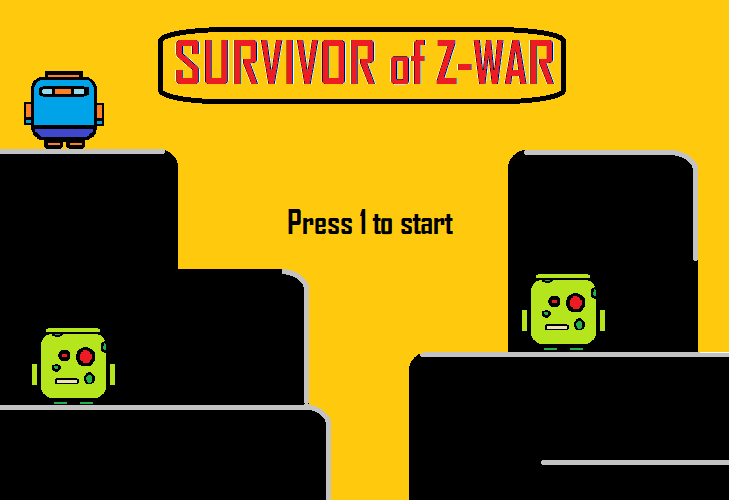
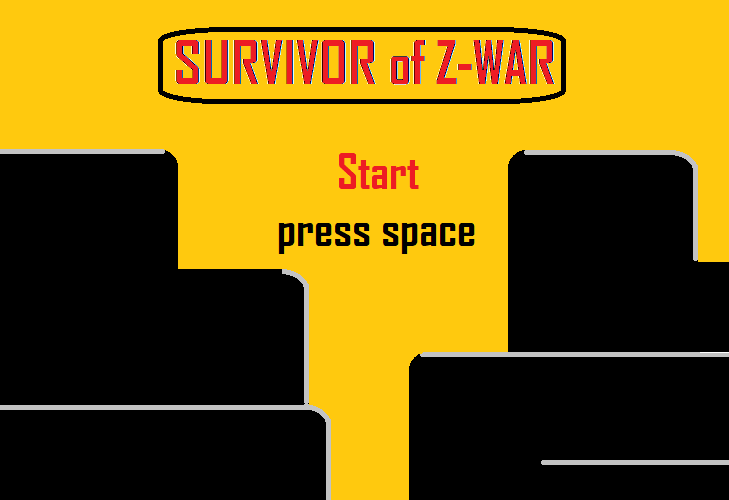
01

diff --git a/management_canvas.py b/management_canvas.py
@@ -1,5 +1,6 @@
 import pygame
 from management_gameplay_environment import ManagementEnvironment
+from management_menu_environment import ManagementMenuEnvironment
 
 
 class ManagementCanvas:
@@ -10,6 +11,7 @@ class ManagementCanvas:
         self.OBJECT_HEIGHT = 80
         self.OBJECT_SPEED = 2
 
+        self.management_menu_environment = None
         self.management_environment = None
 
         # call every x milliseconds
@@ -31,6 +33,10 @@ class ManagementCanvas:
         self.root_background_image_menu = pygame.transform.scale(self.root_background_image_menu,
                                                                  (self.ROOT_WIDTH, self.ROOT_HEIGHT))
 
+    def create_management_menu_environment(self):
+        # create zombie in main menu
+        self.management_menu_environment = ManagementMenuEnvironment(self.root, self.ROOT_WIDTH, self.ROOT_HEIGHT)
+
     def create_management_environment(self):
         # create all the enemy, player, bullet
         self.management_environment = ManagementEnvironment(self.root, self.OBJECT_WIDTH, self.OBJECT_HEIGHT,
@@ -51,6 +57,7 @@ class ManagementCanvas:
             # check if player died
             self.management_player_alive_or_not()
         elif self.root_menu:
+            self.management_menu_environment.move_zombie()
             self.check_event_key_in_menu()
         # draw everything
         self.management_draw()
@@ -60,13 +67,20 @@ class ManagementCanvas:
             # quit the game
             if event.type == pygame.QUIT:
                 self.launched = False
-            # to start game
+
             elif event.type == pygame.KEYUP:
-                if event.key == pygame.K_1:
-                    print("start")
+                # to start game
+                if event.key == pygame.K_SPACE:
                     self.root_gameplay = True
                     self.root_menu = False
                     self.create_management_environment()
+                # to change color of player
+                elif event.key == pygame.K_1:
+                    self.management_menu_environment.set_player_color(1)
+                elif event.key == pygame.K_2:
+                    self.management_menu_environment.set_player_color(2)
+                elif event.key == pygame.K_3:
+                    self.management_menu_environment.set_player_color(3)
 
     def check_event_key_in_gameplay(self):
         for event in pygame.event.get():
@@ -105,3 +119,4 @@ class ManagementCanvas:
             self.management_environment.draw_player_pv()
         elif self.root_menu:
             self.root.blit(self.root_background_image_menu, [0, 0])
+            self.management_menu_environment.draw_zombie_menu()

diff --git a/zombie_menu.py b/zombie_menu.py
@@ -1,0 +1,42 @@
+import pygame
+
+
+class ZombieMenu:
+    def __init__(self, root, position_x, position_y, min_x, max_x, width, height):
+        self.position_x = position_x
+        self.position_y = position_y
+        self.min_x = min_x
+        self.max_x = max_x
+        self.speed = 1
+        self.width = width
+        self.height = height
+        self.root = root
+
+        self.direction = "right"
+
+        self.object_image = pygame.image.load("enemy_zombie_idle.png")
+        self.object_image = pygame.transform.scale(self.object_image, (self.width, self.height))
+
+    def mouvement(self):
+        if self.direction == "right":
+            if self.position_x <= self.max_x:
+                self.move_right()
+            else:
+                self.direction = "left"
+        elif self.direction == "left":
+            if self.position_x >= self.min_x:
+                self.move_left()
+            else:
+                self.direction = "right"
+
+    def move_right(self):
+        self.position_x += self.speed
+
+    def move_left(self):
+        self.position_x -= self.speed
+
+    def draw(self):
+        # draw the rect using the position x, y, width, height
+        pygame.draw.rect(self.root, (0, 0, 0), (self.position_x, self.position_y, self.width, self.height), 1)
+        # draw the image using the position x, y
+        self.root.blit(self.object_image, (self.position_x, self.position_y))

diff --git a/player_menu.py b/player_menu.py
@@ -1,0 +1,33 @@
+import pygame
+
+
+class PlayerMenu:
+    def __init__(self, root, position_x, position_y, width, height):
+        self.root = root
+        self.position_x = position_x
+        self.position_y = position_y
+        self.width = width
+        self.height = height
+        self.object_image = None
+
+        self.player_color = "player_yellow_idle.png"
+        self.resize_image()
+
+    def set_new_color(self, number: int):
+        if number == 1:
+            self.player_color = "player_yellow_idle.png"
+        elif number == 2:
+            self.player_color = "player_green_idle.png"
+        elif number == 3:
+            self.player_color = "player_purple_idle.png"
+        self.resize_image()
+
+    def resize_image(self):
+        self.object_image = pygame.image.load(self.player_color)
+        self.object_image = pygame.transform.scale(self.object_image, (self.width, self.height))
+
+    def draw(self):
+        # draw the rect using the position x, y, width, height
+        pygame.draw.rect(self.root, (0, 0, 0), (self.position_x, self.position_y, self.width, self.height), 1)
+        # draw the image using the position x, y
+        self.root.blit(self.object_image, (self.position_x, self.position_y))

diff --git a/management_menu_environment.py b/management_menu_environment.py
@@ -1,0 +1,28 @@
+import pygame
+from zombie_menu import ZombieMenu
+from player_menu import PlayerMenu
+
+
+class ManagementMenuEnvironment:
+    def __init__(self, root, ROOT_WIDTH, ROOT_HEIGHT):
+        self.root = root
+        self.ZOMBIE_WIDTH = 100
+        self.ZOMBIE_HEIGHT = 100
+        self.ROOT_WIDTH = ROOT_WIDTH
+        self.ROOT_HEIGHT = ROOT_HEIGHT
+
+        self.player_menu = PlayerMenu(self.root, 50, 85, self.ZOMBIE_WIDTH, self.ZOMBIE_HEIGHT)
+        self.zombie_1 = ZombieMenu(self.root, 50, 385, 0, 270, self.ZOMBIE_WIDTH, self.ZOMBIE_HEIGHT)
+        self.zombie_2 = ZombieMenu(self.root, 630, 323, 630, 800, self.ZOMBIE_WIDTH, self.ZOMBIE_HEIGHT)
+
+    def set_player_color(self, number: int):
+        self.player_menu.set_new_color(number)
+
+    def draw_zombie_menu(self):
+        self.zombie_1.draw()
+        self.zombie_2.draw()
+        self.player_menu.draw()
+
+    def move_zombie(self):
+        self.zombie_1.mouvement()
+        self.zombie_2.mouvement()

diff --git a/management_gameplay_environment.py b/management_gameplay_environment.py
@@ -45,14 +45,13 @@ class ManagementEnvironment:
         self.player_image_pv_2 = pygame.image.load("player_pv_2.png")
         self.player_image_pv_1 = pygame.image.load("player_pv_1.png")
 
-
         # set up sound
         self.sound = Sounds()
 
         # set up environment
         self.position_environment = PositionEnvironment(player_pv)
         # set up player
-        self.player = Player(self.root, "player", "player", 400, 250,
+        self.player = Player(self.root, "player_yellow", "player", 400, 250,
                              self.HUMAN_WIDTH, self.HUMAN_HEIGHT, self.HUMAN_SPEED, self.position_environment)
 
     def random_position_of_enemy(self):

diff --git a/object.py b/object.py
@@ -15,7 +15,7 @@ class Object:
         prefix = str.lower(self.name_image)
 
         # create image for everyone
-        self.object_image = pygame.image.load(prefix + "_yellow_idle.png")
+        self.object_image = pygame.image.load(prefix + "_idle.png")
         self.object_image = pygame.transform.scale(self.object_image, (self.width, self.height))
 
         # draw the human in the root

diff --git a/main.py b/main.py
@@ -28,6 +28,8 @@ clock = pygame.time.Clock()
 
 launched = True
 management_canvas = ManagementCanvas(root, clock, launched, ROOT_WIDTH, ROOT_HEIGHT)
+management_canvas.create_management_menu_environment()
+
 while launched:
     # reset the screen to black
     root.fill((0, 0, 0))
